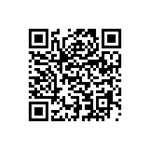
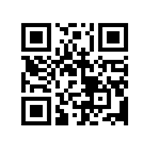
Linking to Social Medias
1.Linking to all social medias
2.adding new qr code for application link
3.adding download Playstore button for both web and mobile resolution

diff --git a/index.html b/index.html
@@ -54,29 +54,33 @@
         <!-- Masthead-->
         <header class="masthead">
         <div class="container-fluid">
-                 <div class="banner col-lg-10 text-lg-end">
+                <div class="banner col-lg-10 text-lg-end">
                 <img class="lines" src="assets/whiteline.png" >
                 <div class="text-uppercase">
-                <div>
-                 <h2 class="text_allignment1 ">Win Upto</h2>
+                <div >
+                 <h1 class="text_allignment1">Win Upto</h1>
                  <h1 class="text_allignment2"><b>10000 Rupees</b></h1> 
-                 <h2 class="text_allignment3 ">daily</h2>
-                </div>
+                 <h1 class="text_allignment3">daily</h1>
+                 </div>
+                 <div class="text-center">
+                  <h1 class="text_allignment1_cen">Win Upto</h1>
+                  <h1 class="text_allignment2_cen"><b>10000 Rupees</b></h1> 
+                  <h1 class="text_allignment3_cen">daily</h1>
+                  </div>
                 </div>
                 <img class="lines" src="assets/whiteline.png">                
                 <div class="masthead-subheading win_text  text_allignment_p">Play exciting game and win cash prizes</div>
-             <div class="test"><!--test code start here--->
-                 <div class="form-outline">
+                 <div class="test">
+              <!--test code start here--->
+                <!-- <div class="form-outline">
                  <input type="tel" autocomplete="off" class="form-control-lg form_design" style="border-radius: 8px;"placeholder="Mobile Number" pattern="[0-9]{2}-[0-9]{7}" required/>
-                 </div> 
+                 </div> -->
                 <br>     
-                <button class="btn btn-success btn_design"style="border-radius: 8px;" href="#services"><b>Get your link on Sms</b></button>
+                <button class="btn btn-success btn_design"style="border-radius: 8px;" href="#services"><b style="font-size: 18px;">Download Application</b><img src="assets/GooglePlay.png" height ="26" width="28" style="margin-left:20px; margin-bottom: 3px;" /></button>
                 <p class="text_allignment">Scan QR Code to download the app</p>
-           <div>
-                <img class="Qr_allignment" src="assets/QR_Code.png" >
-
-               <img class="verified_icon_allignment"src="assets/verified.png" >
-            
+                <div>
+              <img class="Qr_allignment" src="assets/QR_Code.png" style="border-radius: 12px;" >
+              <img class="verified_icon_allignment"src="assets/verified.png" >
                 <p class="Security_text">Security Verified</p>
              <!----------   <a href="">
                   <button class="btn btn-success btn_design_download_ " href="#services"><b>How to Scan</b></button> 
@@ -87,11 +91,17 @@
             </div>
             <div class="test1 win_text">
                 <a href="">
-                <button class="btn btn-success btn_design_download " href="#services"><b>Download Application</b></button> 
+                <button class="btn btn-success btn_design_download " href="#services"><b>Download Application</b><img src="assets/GooglePlay.png" height ="20" width="20" style="margin-left:8px; margin-bottom: 3px;" /></button> 
                 </a> 
                
-            </div> 
-           
+            </div>
+            <!---P
+            <div class="test1 win_text">
+              <a href="">
+              <button class="btn btn-dark btn_design_download_playstore " href="#services"><b>Download Application</b><img src="assets/GooglePlay.png" height ="20" width="20" style="margin-left:5px; margin-bottom: 3px;" /></button> 
+              </a> --->
+             
+          </div> 
         </div>
         </header>
         <!-- Services-->
@@ -319,10 +329,11 @@
                  
 <br><br>
                     <h6 class="text-uppercase font-weight-bold heading_Color_white">Social Links</h6>
-                    <img src="assets/img/Instagram.png"style="width: 30px;height: 30px;">
-                    <img src="assets/img/Twitter.png"style="width: 30px;height: 30px;">
-                    <img src="assets/img/Youtube.png"style="width: 30px;height: 30px;">
-                    <img src="assets/img/fb_icon.png"style="width: 30px;height: 30px;">
+                   <a href="https://www.instagram.com/pryzegames"><img src="assets/img/Instagram.png"style="width: 30px;height: 30px;"></a>
+                   <a href="https://twitter.com/PryzeGames"><img src="assets/img/Twitter.png"style="width: 30px;height: 30px;"></a> 
+                    
+                    <a href="https://www.youtube.com/channel/UCceif4aXEbuHxE8B4cm2Ihg"><img src="assets/img/Youtube.png"style="width: 30px;height: 30px;"></a> 
+                    <a href="https://www.facebook.com/PryzeGames"><img src="assets/img/fb_icon.png"style="width: 30px;height: 30px;"></a>
                   </div>
                   <!-- Grid column -->
             

diff --git a/css/styles.css b/css/styles.css
@@ -11687,7 +11687,16 @@ p {
   margin-bottom: 2rem;
 }
 
-@media only screen and (min-device-width: 10px) and (max-device-width: 480px) {
+@media only screen and (min-device-width: 481px) and (max-device-width: 768px) {
+  .text_allignment2 {
+    display: none;
+  }
+  .text_allignment1 {
+    display: none;
+  }
+  .text_allignment3 {
+    display: none;
+  }
   .test {
     display: none;
   }
@@ -11712,8 +11721,13 @@ p {
     box-shadow: 0px 4px 5px rgba(0, 0, 0, 0.12);
   }
   .btn_design_download {
-    width: 200px;
+    width: 230px;
     height: 46px;
+    box-shadow: 0px 4px 5px rgba(0, 0, 0, 0.12);
+  }
+  .btn_design_download_playstore {
+    width: 220px;
+    height: 50px;
     box-shadow: 0px 4px 5px rgba(0, 0, 0, 0.12);
   }
   .btn_design_download_ {
@@ -11737,71 +11751,70 @@ p {
   .section-1 {
     background-image: url("../assets/img/base_mb.png");
   }
-  .text_allignment1 {
-    margin-right: none;
-    margin-left: 155px;
-    text-align: center;
-  }
-  .text_allignment2 {
-    margin-right: none;
-    margin-left: 40px;
-    text-align: center;
-  }
-  .text_allignment3 {
-    margin-right: none;
-    margin-left: 150px;
-    text-align: center;
-  }
 }
-@media only screen and ((max-device-width: 481px) and (min-device-width:430px)) {
-  .text_allignment1 {
-    margin-right: none;
-    margin-left: 130px;
-    text-align: center;
-  }
+@media only screen and (min-device-width: 10px) and (max-device-width: 480px) {
   .text_allignment2 {
-    margin-right: none;
-    margin-left: 20px;
-    text-align: center;
+    display: none;
+  }
+  .text_allignment1 {
+    display: none;
   }
   .text_allignment3 {
-    margin-right: none;
-    margin-left: 120px;
+    display: none;
+  }
+  .test {
+    display: none;
+  }
+  .test1 {
+    display: block;
+  }
+  .win_text {
     text-align: center;
   }
-}
-@media only screen and ((max-device-width: 420px) and (min-device-width:350px)) {
-  .text_allignment1 {
-    margin-right: none;
-    margin-left: 40px;
-    text-align: center;
+  .lines {
+    display: none;
   }
-  .text_allignment2 {
-    margin-right: none;
-    margin-left: auto;
-    text-align: center;
+  header.masthead {
+    padding-top: 30rem;
+    padding-bottom: 15.5rem;
+    background-image: url("../assets/img/Web_mb.png");
+    background-size: cover;
   }
-  .text_allignment3 {
-    margin-right: none;
-    margin-left: 20px;
-    text-align: center;
+  .btn_design {
+    width: 200px;
+    height: 46px;
+    box-shadow: 0px 4px 5px rgba(0, 0, 0, 0.12);
   }
-}
-@media only screen and (max-device-width: 270px) {
-  .text_allignment1 {
-    margin-right: none;
-    margin-left: 45px;
-    text-align: center;
+  .btn_design_download {
+    width: 210px;
+    height: 46px;
+    box-shadow: 0px 4px 5px rgba(0, 0, 0, 0.12);
   }
-  .text_allignment2 {
-    margin-right: none;
-    margin-left: 45px;
-    text-align: center;
+  .btn_design_download_playstore {
+    width: 220px;
+    height: 50px;
+    box-shadow: 0px 4px 5px rgba(0, 0, 0, 0.12);
   }
-  .text_allignment3 {
-    margin-right: 35px;
-    margin-left: none;
-    text-align: center;
+  .btn_design_download_ {
+    margin-right: -500px;
+    width: 120px;
+    height: 30px;
+    box-shadow: 0px 4px 5px rgba(0, 0, 0, 0.12);
+  }
+  .card_padding {
+    padding-bottom: 15px;
+    box-sizing: border-box;
+  }
+  .section-heading {
+    padding-top: 20px;
+    font-size: 1.5rem;
+    box-sizing: border-box;
+  }
+  .cover_bg {
+    background-image: url("../assets/img/Base.png");
+  }
+  .section-1 {
+    background-image: url("../assets/img/base_mb.png");
   }
 }
 @media only screen and (min-device-width: 992px) and (max-device-width: 2000px) {
@@ -11811,6 +11824,7 @@ p {
   .test {
     display: block;
   }
+  .
 }
 
 @media (min-width: 768px) {
@@ -11989,13 +12003,13 @@ header.masthead {
   margin-right: -10px;
 }
 .text_allignment1 {
-  margin-right: 185px;
+  margin-right: 140px;
 }
 .text_allignment2 {
   margin-right: 50px;
 }
 .text_allignment3 {
-  margin-right: 260px;
+  margin-right: 230px;
 }
 .text_allignment {
   margin-top: 20px;
@@ -12011,6 +12025,7 @@ header.masthead {
 .btn_design {
   width: 360px;
   height: 46px;
+
   box-shadow: 0px 4px 5px rgba(0, 0, 0, 0.12);
 }
 
@@ -12310,6 +12325,15 @@ header.masthead .masthead-heading {
 }
 
 @media (min-width: 768px) {
+  .text_allignment2_cen {
+    display: none;
+  }
+  .text_allignment1_cen {
+    display: none;
+  }
+  .text_allignment3_cen {
+    display: none;
+  }
   .timeline:before {
     left: 50%;
   }
